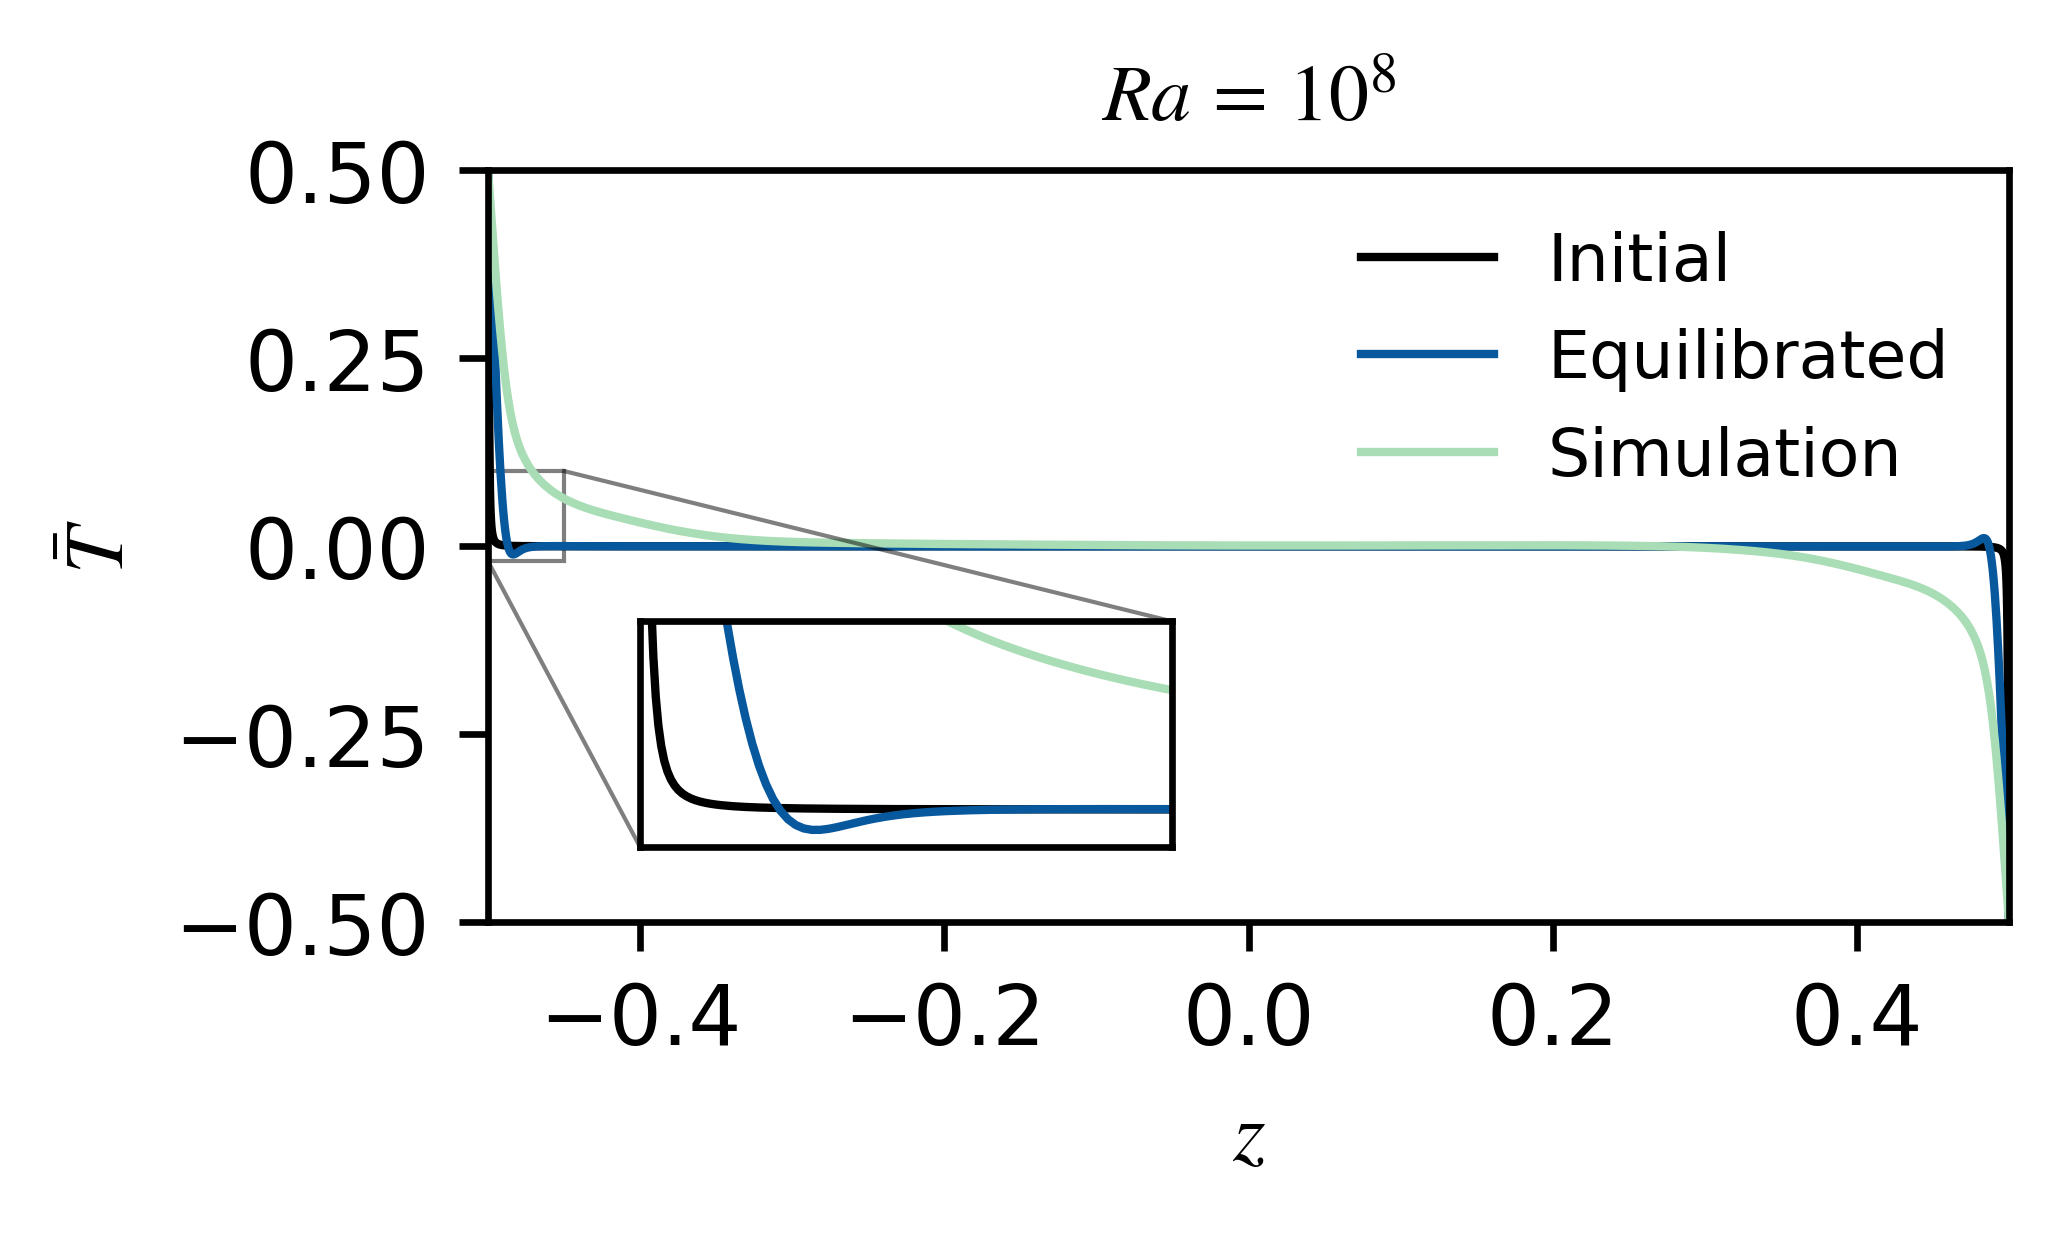
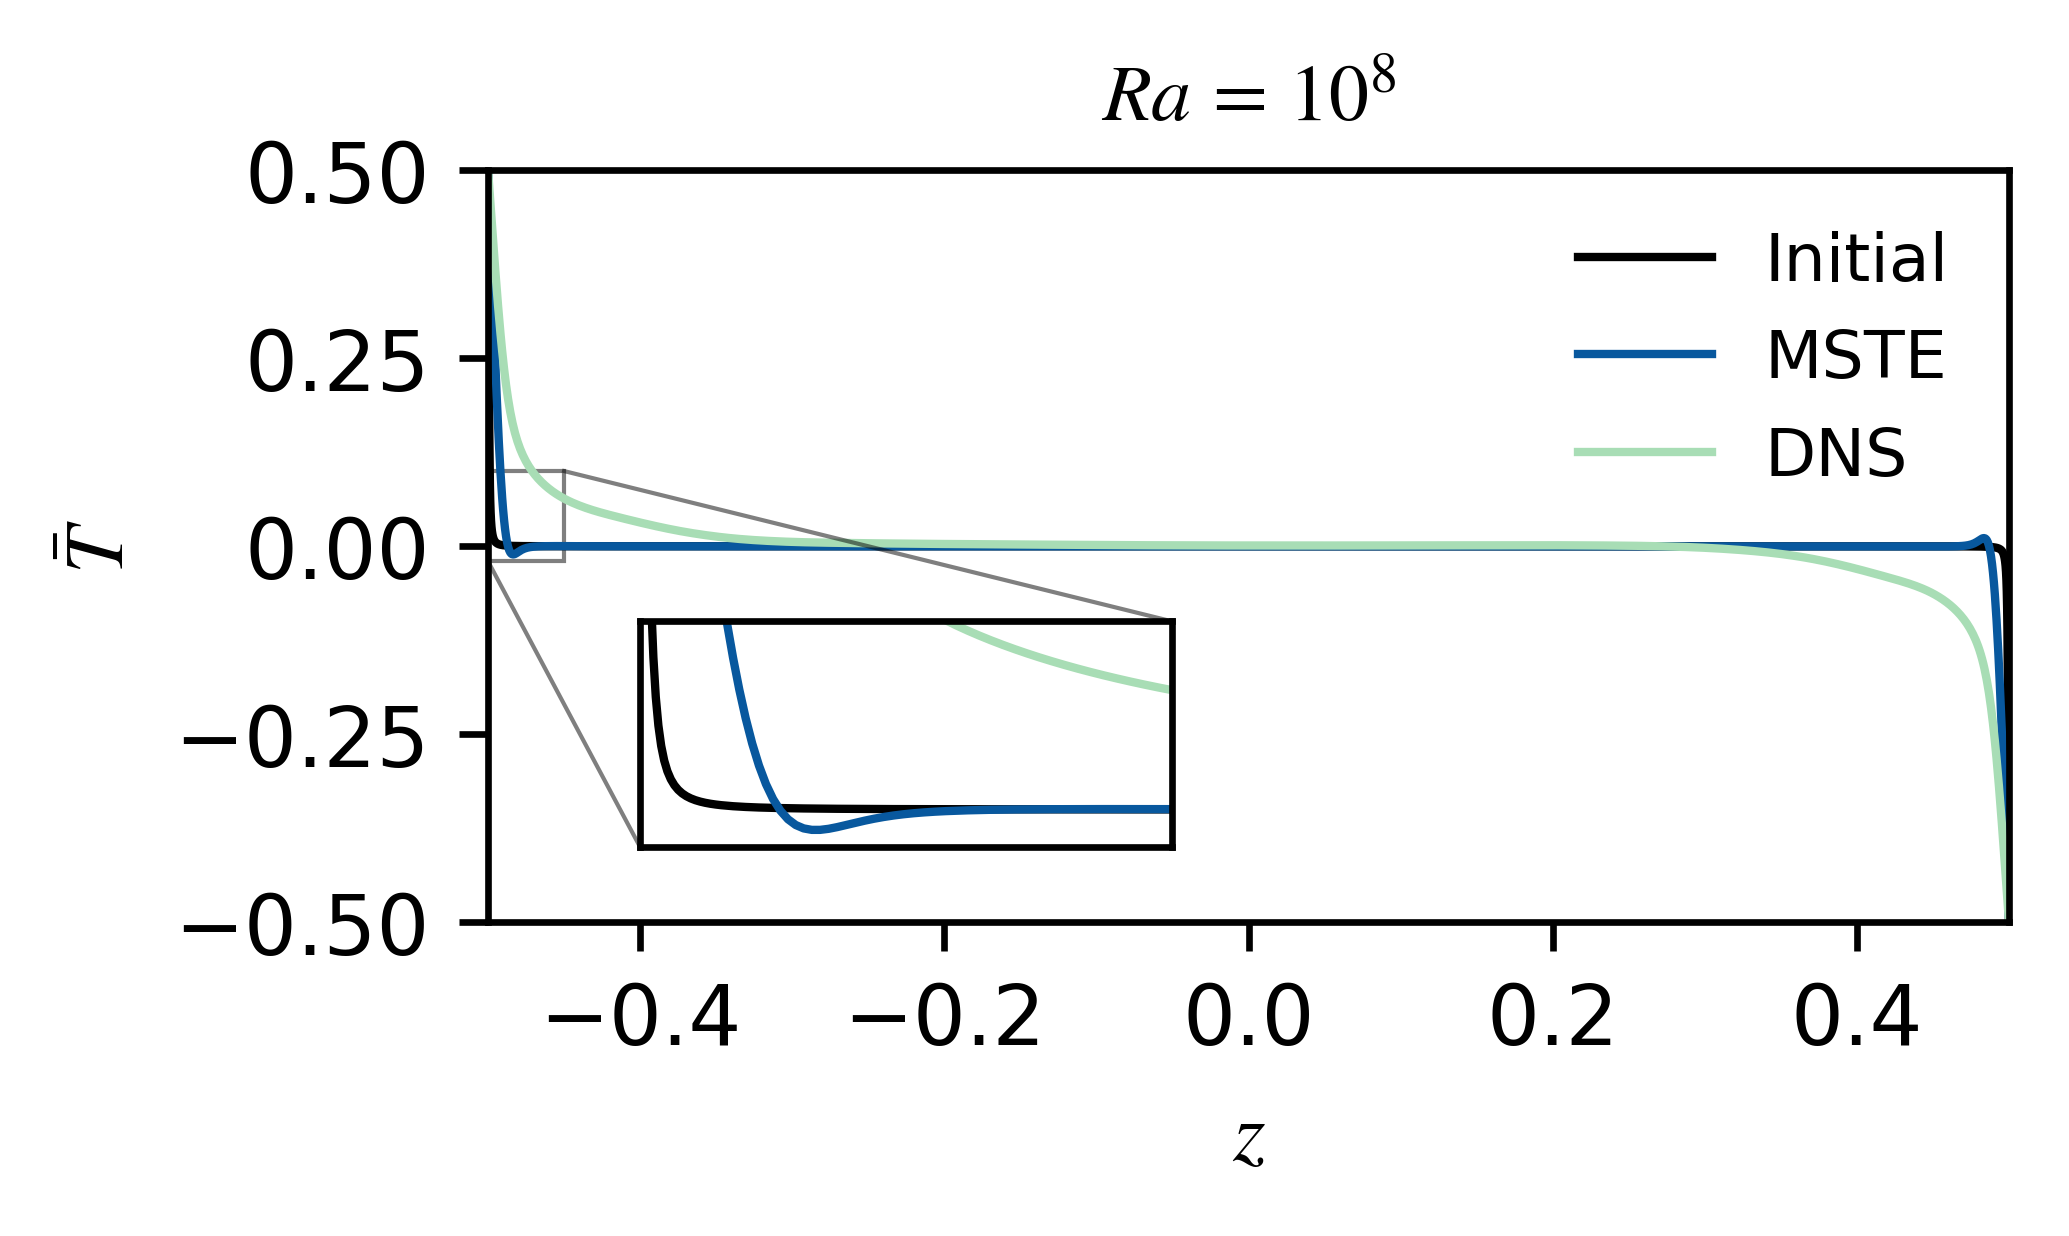
sim figs nomenclature

Changed region(s): [[0.6496, 0.1845, 0.9589, 0.3074], [0.7424, 0.3382, 0.928, 0.3997], [0.6496, 0.3382, 0.7115, 0.3689]]

diff --git a/plot_nu.py b/plot_nu.py
@@ -109,8 +109,8 @@ if __name__ == "__main__":
         sim_times_ar_eq = nu_data_eq['sim_times_ar']
         sim_times_ar = nu_data['sim_times_ar']
         colors = plt.rcParams['axes.prop_cycle'].by_key()['color']
-        plt.plot(sim_times_ar, nu_ar, color='black', label = 'Conductive I.C.')
-        plt.plot(sim_times_ar_eq, nu_ar_eq, color=colors[-1], label = 'Equilibrated I.C.')
+        plt.plot(sim_times_ar, nu_ar, color='black', label = 'Linear IC')
+        plt.plot(sim_times_ar_eq, nu_ar_eq, color=colors[-1], label = 'MSTE IC')
         plt.xlim(0, 100)
         plt.legend(frameon=False)
         plt.xlabel(r'$t$')

diff --git a/plot_ke.py b/plot_ke.py
@@ -77,8 +77,8 @@ if __name__ == "__main__":
         sim_times_ar_eq = ke_data_eq['sim_times_ar']
         sim_times_ar = ke_data['sim_times_ar']
         colors = plt.rcParams['axes.prop_cycle'].by_key()['color']
-        plt.plot(sim_times_ar, ke_ar, color='black', label = 'Conductive I.C.')
-        plt.plot(sim_times_ar_eq, ke_ar_eq, color=colors[-1], label = 'Equilibrated I.C.')
+        plt.plot(sim_times_ar, ke_ar, color='black', label = 'Linear IC')
+        plt.plot(sim_times_ar_eq, ke_ar_eq, color=colors[-1], label = 'MSTE IC')
         plt.xlim(0, 400)
         plt.legend(frameon=False)
         plt.xlabel(r'$t$')
